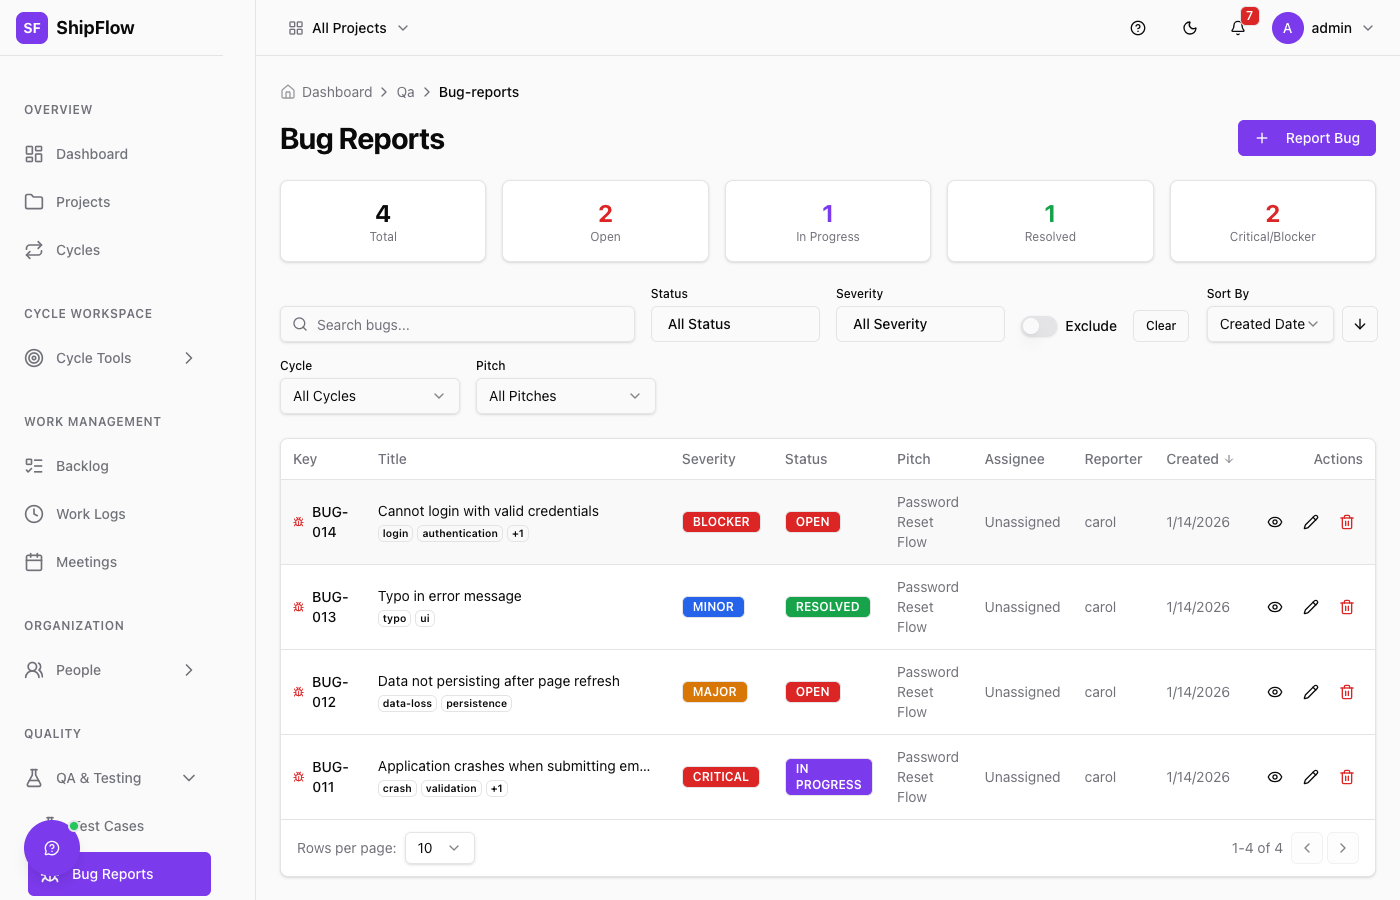
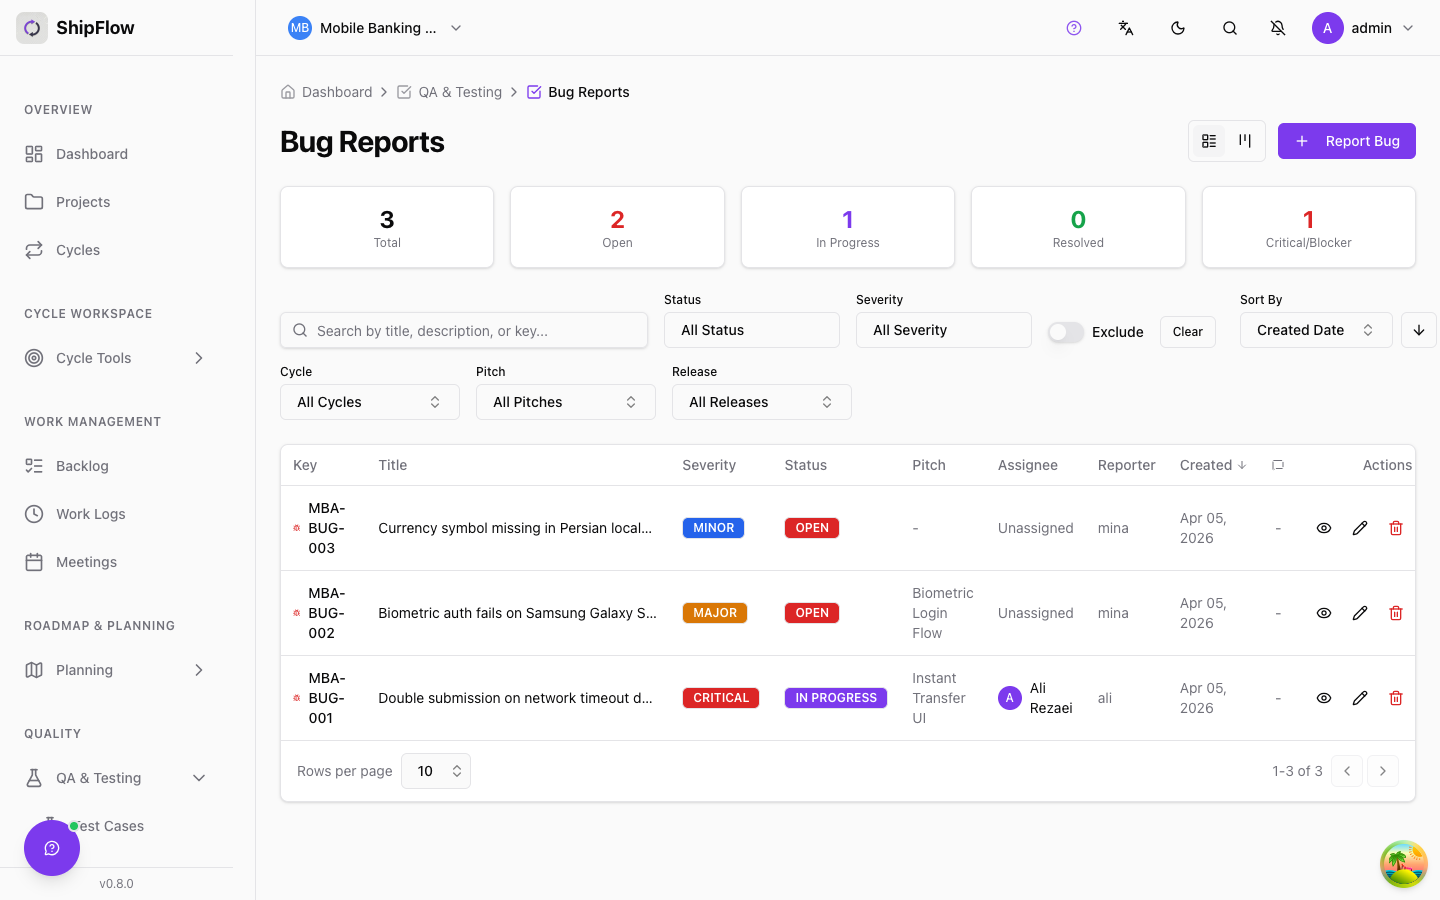
docs: refresh all screenshots for v0.8.0 release
Replace 2-month-old screenshots with fresh captures from the v0.8.0
app with full seed data loaded:

- dashboard.png — Mobile Banking App project selected, quick links,
  active cycle with hill chart progress bars
- pitch-board.png — Pitch kanban with IDEA/DRAFT/SHAPED/BET/STARTED
  columns and real pitch cards
- betting-table.png — Betting table with shaped pitches being assigned
  to a cycle (key Shape Up differentiator)
- hill-chart.png — Cycle hill chart with scope dots plotted on the curve
- cycle-detail.png — Cycle overview with pitches, teams, task progress
- backlog.png — Task backlog with all columns, priority badges, assignees
- qa-bug-reports.png — QA bug reports page with severity/status filters
- retro-board.png — Retrospectives list with real retro entries
- demo.webp — New 8-frame animated WebP (2.5s/frame) cycling through
  all screens at 1280x800

README screenshot grid expanded from 1×3 to 2×3 table showing all
six distinct views.

diff --git a/README.md b/README.md
@@ -9,9 +9,13 @@ A modern project management application implementing the [Shape Up](https://base
 
 <img src="screenshots/demo.webp" alt="ShipFlow Demo" width="100%" />
 
-| Dashboard | Hill Charts | Pitch Board |
-|-----------|-------------|-------------|
-| ![Dashboard](screenshots/dashboard.png) | ![Hill Chart](screenshots/hill-chart.png) | ![Pitch Board](screenshots/pitch-board.png) |
+| Dashboard | Pitch Board | Betting Table |
+|-----------|-------------|---------------|
+| ![Dashboard](screenshots/dashboard.png) | ![Pitch Board](screenshots/pitch-board.png) | ![Betting Table](screenshots/betting-table.png) |
+
+| Hill Chart | Task Backlog | Bug Reports |
+|------------|--------------|-------------|
+| ![Hill Chart](screenshots/hill-chart.png) | ![Task Backlog](screenshots/backlog.png) | ![Bug Reports](screenshots/qa-bug-reports.png) |
 
 ## ✨ Features
 
